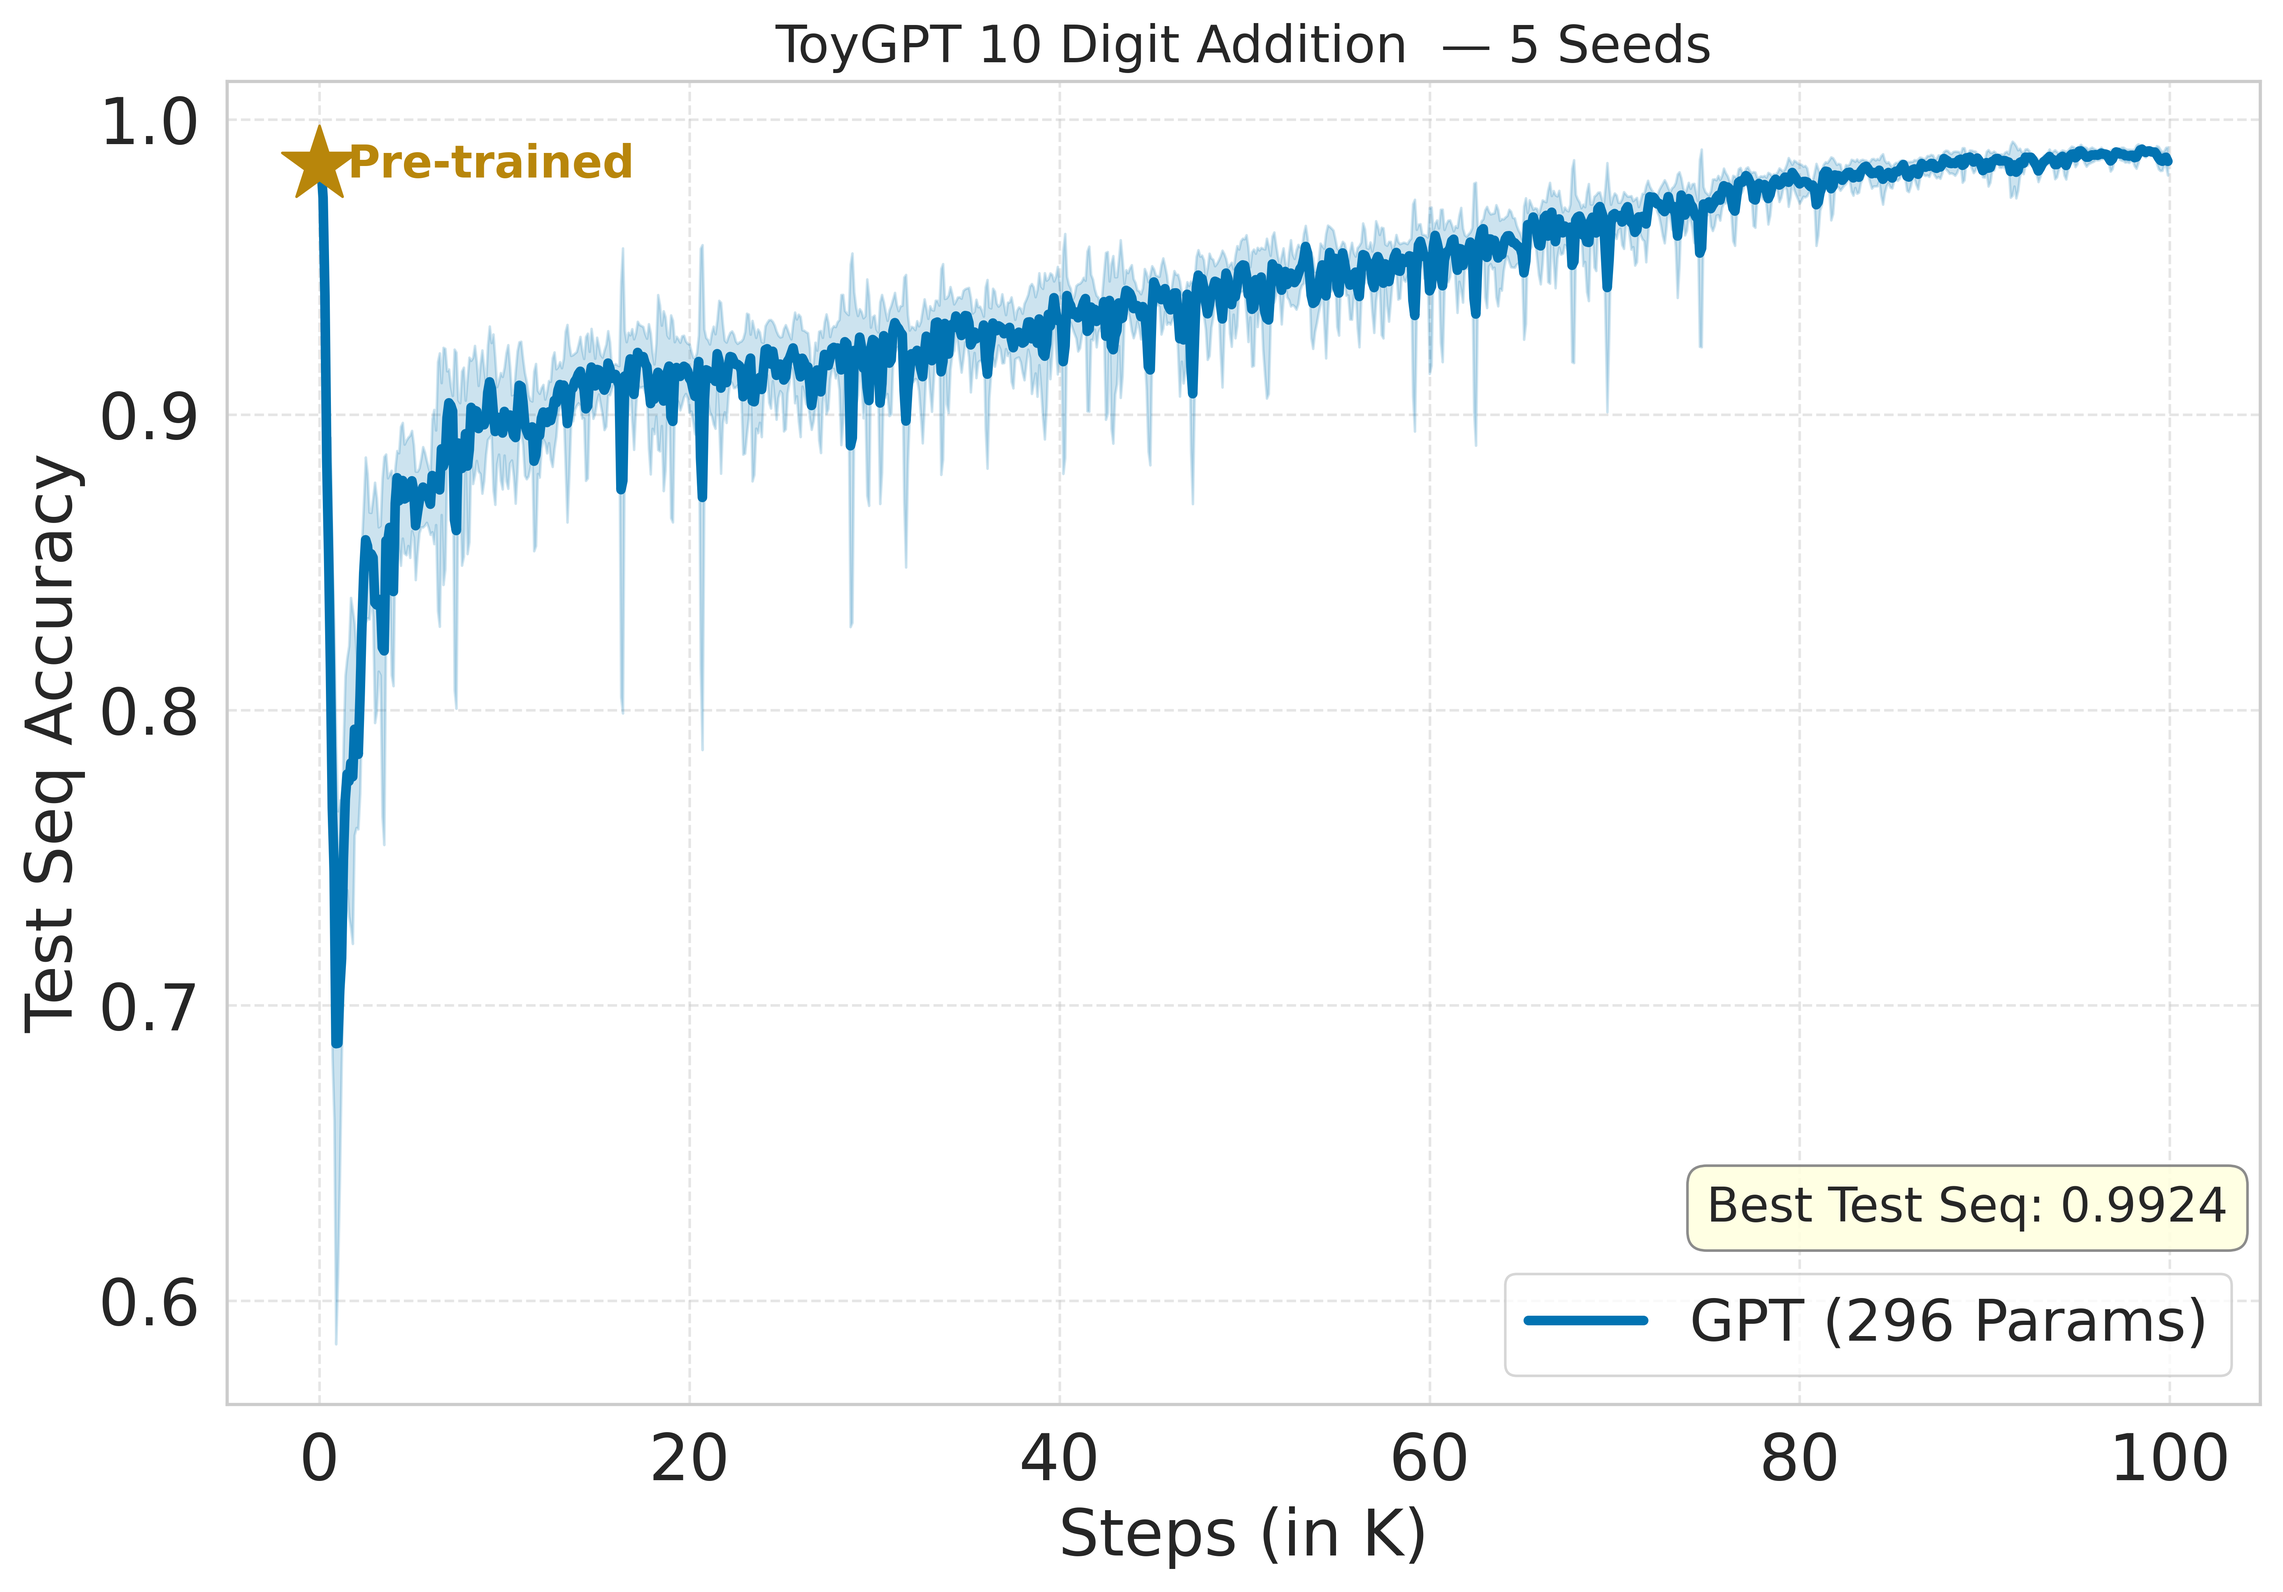
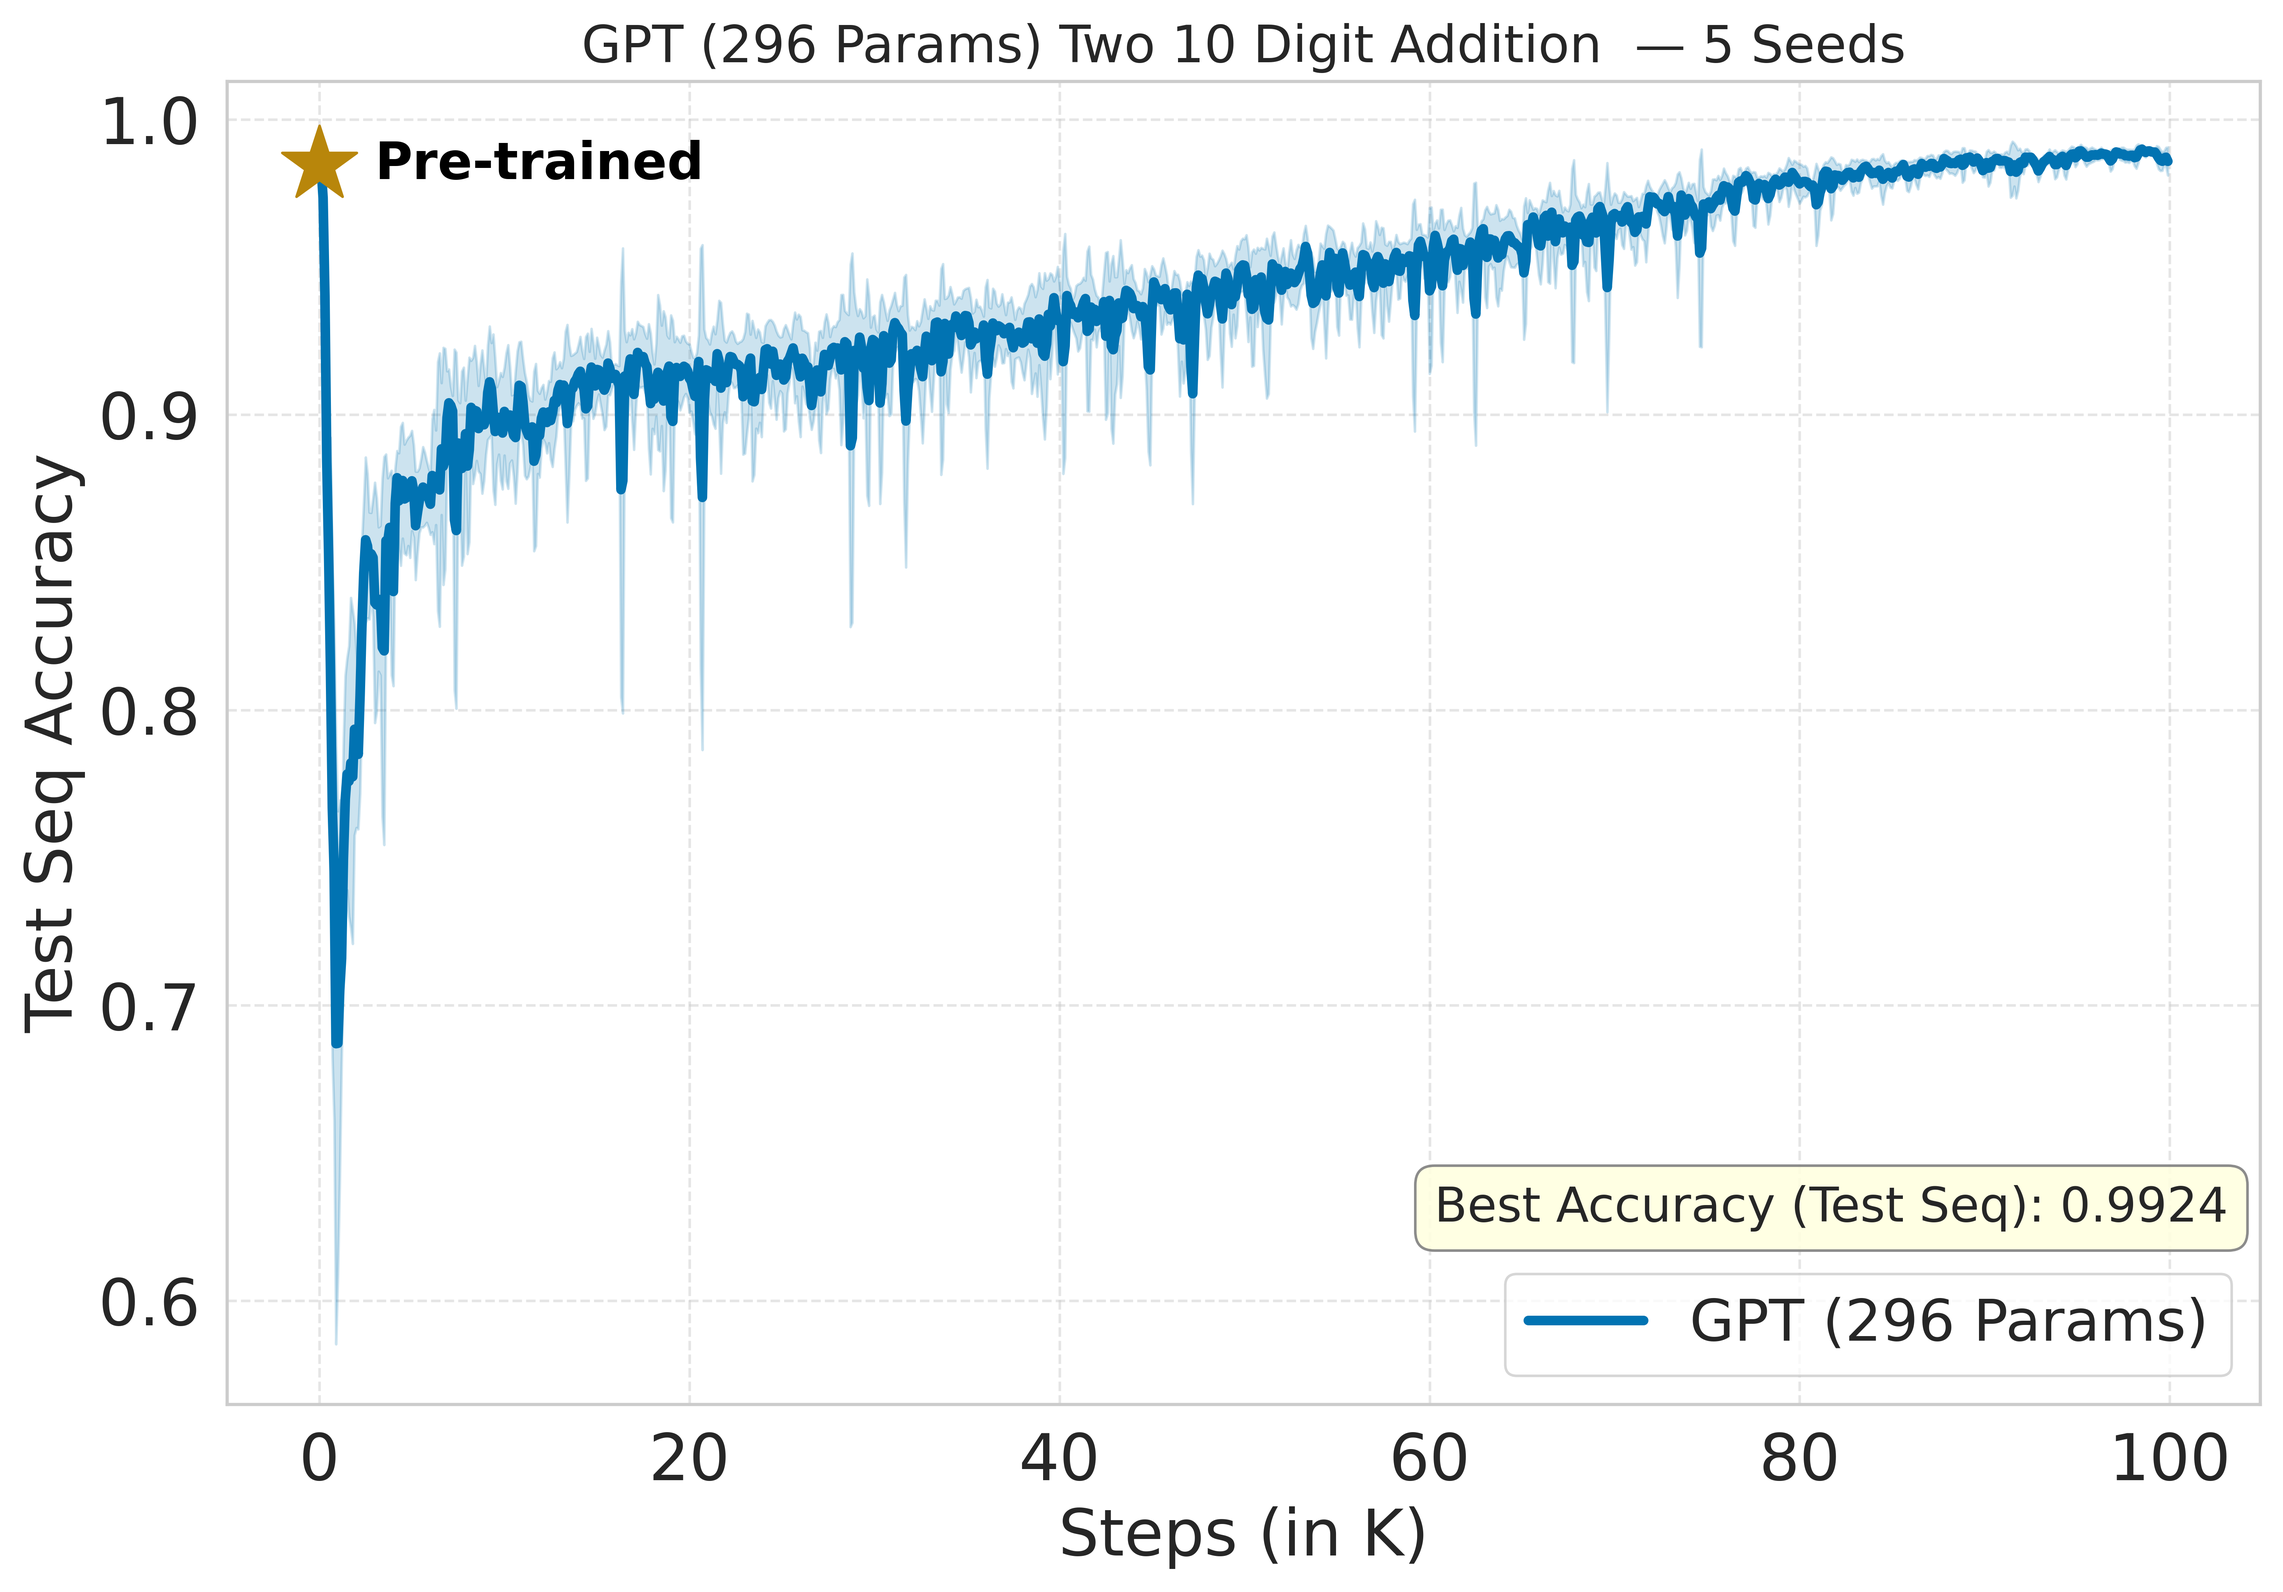
Update README title, badges, citation key, and figures

Changed region(s): [[0.2492, 0.0, 0.8409, 0.0623], [0.5918, 0.7161, 0.9032, 0.8096], [0.1557, 0.0934, 0.3114, 0.1245]]

diff --git a/plot.py b/plot.py
@@ -65,10 +65,10 @@ ax.fill_between(steps_k, mean_s - std_s, mean_s + std_s,
 # Big yellowish-brown star at the start point
 ax.scatter(steps_k[0], mean_s[0], marker='*', s=600, color='#B8860B', zorder=5)
 ax.annotate('Pre-trained', xy=(steps_k[0], mean_s[0]),
-            xytext=(steps_k[0] + 1.5, mean_s[0]),
-            fontsize=14, color='#B8860B', va='center', fontweight='bold')
+            xytext=(steps_k[0] + 3.0, mean_s[0]),
+            fontsize=16, color='black', va='center', fontweight='bold')
 
-ax.set_title('ToyGPT 10 Digit Addition  — 5 Seeds', fontsize=16)
+ax.set_title('GPT (296 Params) Two 10 Digit Addition  — 5 Seeds', fontsize=16)
 ax.set_xlabel('Steps (in K)', fontsize=20)
 ax.set_ylabel('Test Seq Accuracy', fontsize=20)
 ax.grid(True, linestyle='--', alpha=0.5)
@@ -80,7 +80,7 @@ legend = ax.legend(fontsize=18, loc='lower right')
 
 # Separate box above legend for best acc
 from matplotlib.patches import FancyBboxPatch
-ax.annotate(f'Best Test Seq: {best_overall:.4f}',
+ax.annotate(f'Best Accuracy (Test Seq): {best_overall:.4f}',
             xy=(1, 0), xycoords='axes fraction',
             xytext=(-10, 10 + legend.get_window_extent(fig.canvas.get_renderer()).height),
             textcoords='offset points',

diff --git a/README.md b/README.md
@@ -1,4 +1,7 @@
-# Curriculum Pretraining Enables 10-Digit Addition in a 296-Parameter GPT
+# Curriculum Pretraining Enables 10-Digit Addition for a 296-Parameter GPT with 99% Accuracy
+
+[![License: MIT](https://img.shields.io/badge/License-MIT-yellow.svg)](LICENSE)
+[![Blog](https://img.shields.io/badge/Blog-post-blue.svg)](https://sanyalsunny111.github.io/posts/2026-02-27-smallest-gpt-for-addition/)
 
 A 296-parameter GPT model trained to perform digit-wise addition of two 10-digit numbers. The training follows a two-stage recipe: curriculum-style pre-training on variable-length addition (2–10 digits), followed by fine-tuning on fixed 10-digit addition with Latest Weight Averaging (LAWA).
 
@@ -87,7 +90,6 @@ python toyGPT_pretrain.py
 # Stage 2: fine-tune on 10-digit addition (run per seed)
 python toyGPT_addition.py --seed 0
 python toyGPT_addition.py --seed 42
-Or run all seeds in one go:
 
 # run all at once
 bash run.sh
@@ -97,15 +99,18 @@ bash run.sh
 
 ## Contribution Statement
 
-Sunny Sanyal conceived the idea of curriculum-based pretraining combined with LAWA (Latest Weight Averaging) during fine-tuning, and ran all experiments himself. Claude wrote all code. 
-Its suggested solutions were primarily architectural modifications, while the final approach focused on training-recipe changes rather than altering the model architecture.
+Sunny Sanyal conceived the idea of curriculum-based pretraining combined with LAWA (Latest Weight Averaging) during fine-tuning, and ran all experiments himself. Claude wrote all the code and also helped in writing the Readme. 
+Claude's suggested solutions were primarily architecture modifications, while the final approach focused on training-recipe changes rather than altering the model architecture.
 
 ## Citation
 
 ```bibtex
-@misc{toyGPT_curriculum_pre-training_2026,
+@misc{sanyal2026AdditionGPT,
   author       = {Sunny Sanyal},
-  title        = {Curriculum Pretraining Enables 10-Digit Addition in a 296-Parameter GPT},
+  title        = {Curriculum Pretraining Enables 10-Digit Addition for a 296-Parameter GPT with 99% Accuracy},
   year         = {2026},
   note         = {Blog},
+  url          = {https://sanyalsunny111.github.io/posts/2026-02-27-smallest-gpt-for-addition/}
 }
+```
+
